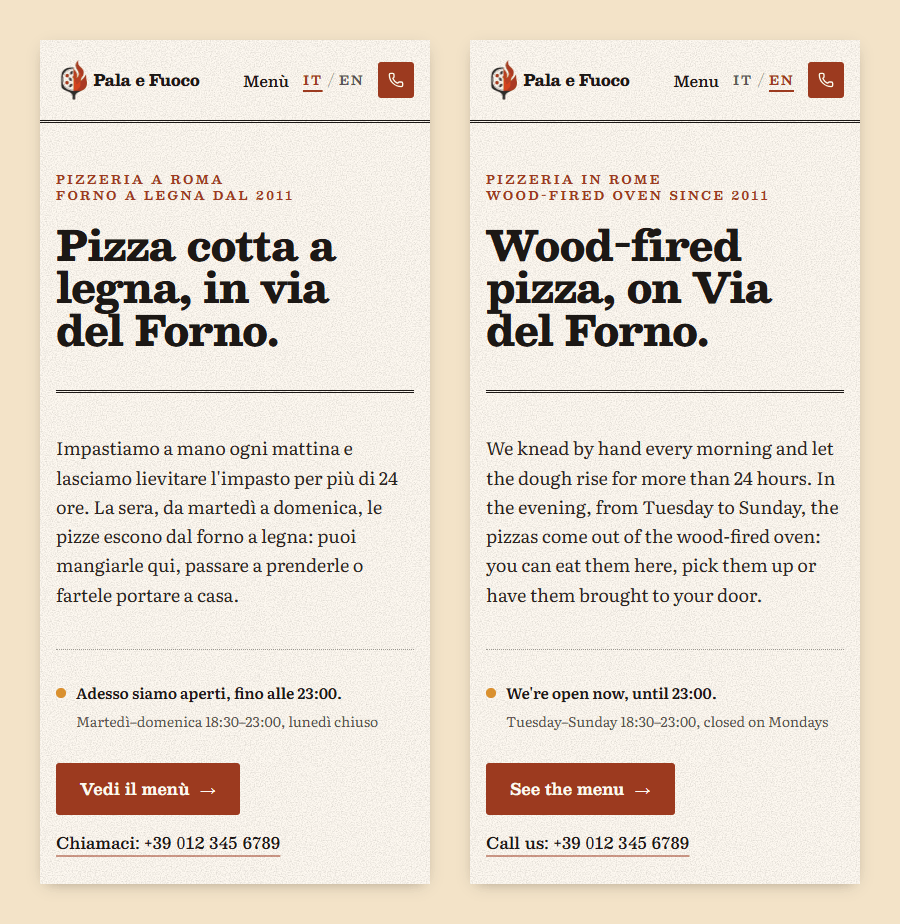
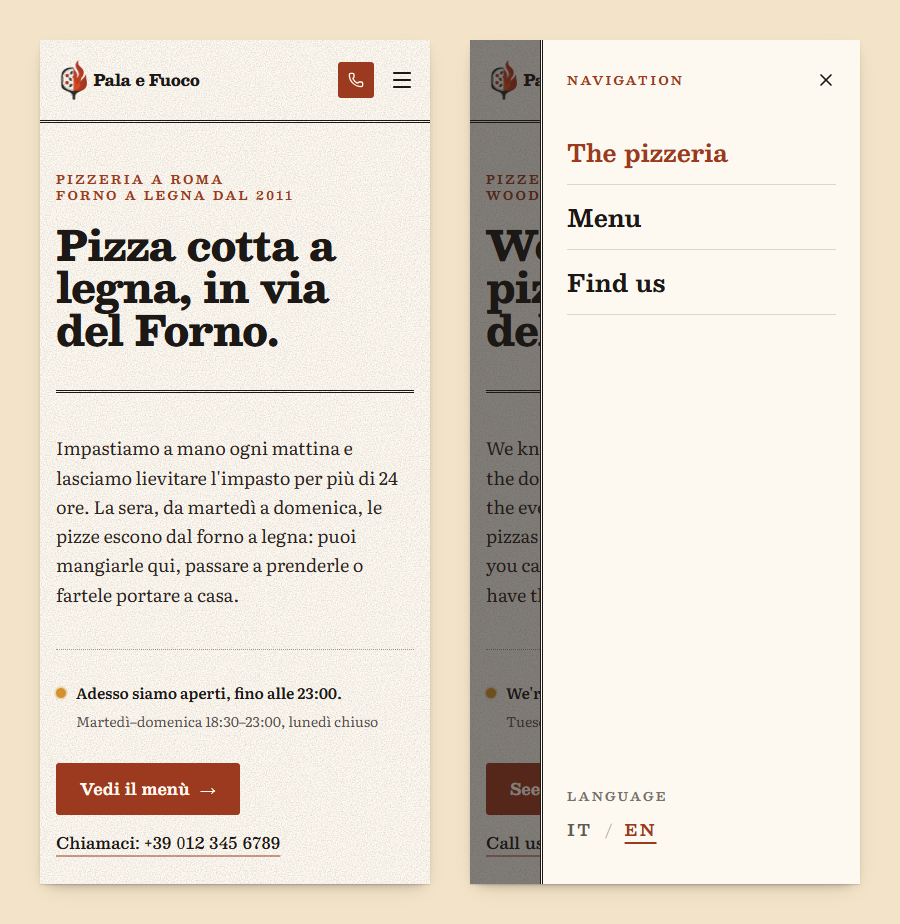
[IMPL]
- hamburger menu per rendere la navbar più leggibile
- aggiornamento screenshot README.md

Changed region(s): [[0.4978, 0.0303, 0.9644, 0.9697], [0.28, 0.0606, 0.4667, 0.1212]]

diff --git a/src/components/PizzeriaNav.tsx b/src/components/PizzeriaNav.tsx
@@ -1,46 +1,71 @@
-import { Phone } from 'lucide-react'
+import { Menu, Phone } from 'lucide-react'
+import { useCallback, useEffect, useState } from 'react'
 import { useTranslation } from 'react-i18next'
 import { Link, NavLink } from 'react-router-dom'
 import logo from '../assets/logo.webp'
 import { INFO } from '../data/info'
 import { LanguageSwitch } from './LanguageSwitch'
+import { NavDrawer } from './NavDrawer'
 
 const LINKS = [
-    { to: '/', key: 'nav.pizzeria', end: true, mobile: false },
-    { to: '/menu', key: 'nav.menu', end: false, mobile: true },
+    { to: '/', key: 'nav.pizzeria', end: true },
+    { to: '/menu', key: 'nav.menu', end: false },
 ]
+
+const DRAWER_ID = 'nav-drawer'
 
 const linkClass = ({ isActive }: { isActive: boolean }) =>
     `font-display text-[0.95rem] font-semibold underline-offset-[0.4em] transition-colors hover:text-terracotta-700 ${
         isActive ? 'text-terracotta-700 underline decoration-2' : 'text-carbone-900'
     }`
 
+const drawerLinkClass = ({ isActive }: { isActive: boolean }) =>
+    `block border-b border-carbone-900/15 py-4 text-2xl font-bold transition-colors hover:text-terracotta-700 ${
+        isActive ? 'text-terracotta-700' : 'text-carbone-900'
+    }`
+
 export function PizzeriaNav() {
     const { t } = useTranslation()
+    const [drawerOpen, setDrawerOpen] = useState(false)
+    const closeDrawer = useCallback(() => setDrawerOpen(false), [])
+
+    // Se la finestra si allarga fino a mostrare i link nella barra, la sidebar non ha più senso:
+    // la si chiude (e con lei lo scroll della pagina si sblocca). Stessa soglia dei link: 768px, 900px dal portfolio.
+    useEffect(() => {
+        if (!drawerOpen) return
+        const fromPortfolio = document.documentElement.hasAttribute('data-portfolio-back')
+        const query = window.matchMedia(fromPortfolio ? '(min-width: 900px)' : '(min-width: 768px)')
+        const onChange = () => query.matches && closeDrawer()
+        onChange()
+        query.addEventListener('change', onChange)
+        return () => query.removeEventListener('change', onChange)
+    }, [drawerOpen, closeDrawer])
+
     return (
         <header className="sticky top-0 z-40 border-b-[3px] border-double border-carbone-900 px-4 [background:inherit] sm:px-6 lg:px-8">
             {/* Sotto i 375px, per farci stare tutto, il logo sparisce e resta solo il nome. Aperta dal portfolio
                 (back:), il pl si somma a quello dell'header e lascia spazio alla pillola fissa "torna al portfolio"
-                in alto a sinistra, che finisce a 82px (104px da sm); per lo stesso motivo «La pizzeria» e
-                «Dove siamo» compaiono solo da 900px invece che da 768px. */}
+                in alto a sinistra, che finisce a 82px (104px da sm); per lo stesso motivo i link compaiono nella
+                barra solo da 900px invece che da 768px. Sotto quella soglia link e lingua stanno nella sidebar
+                (NavDrawer), aperta dal pulsante hamburger. */}
             <nav className="mx-auto flex h-20 w-full max-w-6xl items-center justify-between gap-2 back:pl-[4.625rem] back:sm:pl-[6.5rem]">
                 <Link to="/" className="flex shrink-0 items-center gap-1.5 sm:gap-2">
-                    <img src={logo} alt="" className="h-10 w-auto max-[374px]:hidden back:max-sm:hidden sm:h-11" />
-                    <span className="font-display text-base font-extrabold tracking-tight text-carbone-900 back:max-[419px]:text-sm sm:text-2xl">
+                    <img src={logo} alt="" className="h-10 w-auto max-[374px]:hidden sm:h-11" />
+                    <span className="font-display text-base font-extrabold tracking-tight text-carbone-900 sm:text-2xl">
                         Pala e Fuoco
                     </span>
                 </Link>
 
-                <div className="flex items-center gap-2.5 back:max-[419px]:gap-1.5 sm:gap-4 lg:gap-8">
-                    <ul className="flex items-center gap-6">
+                <div className="flex items-center gap-2.5 sm:gap-4 lg:gap-8">
+                    <ul className="hidden items-center gap-6 md:flex back:max-[899px]:hidden">
                         {LINKS.map((link) => (
-                            <li key={link.to} className={link.mobile ? '' : 'hidden md:block back:max-[899px]:hidden'}>
+                            <li key={link.to}>
                                 <NavLink to={link.to} end={link.end} className={linkClass}>
                                     {t(link.key)}
                                 </NavLink>
                             </li>
                         ))}
-                        <li className="hidden md:block back:max-[899px]:hidden">
+                        <li>
                             <Link
                                 to="/#contatti"
                                 className="font-display text-[0.95rem] font-semibold text-carbone-900 transition-colors hover:text-terracotta-700"
@@ -50,19 +75,58 @@ export function PizzeriaNav() {
                         </li>
                     </ul>
 
-                    <LanguageSwitch />
+                    <div className="hidden md:block back:max-[899px]:hidden">
+                        <LanguageSwitch />
+                    </div>
 
                     {/* Mockato: progetto dimostrativo, il pulsante non avvia una chiamata reale. */}
                     <button
                         type="button"
                         aria-label={t('nav.call', { phone: INFO.phone })}
-                        className="inline-flex size-9 back:max-[359px]:hidden items-center justify-center gap-2 rounded-[3px] bg-terracotta-700 text-sm font-semibold text-crema-50 transition hover:bg-terracotta-800 active:translate-y-px lg:size-auto lg:px-4 lg:py-2.5"
+                        className="inline-flex size-9 items-center justify-center gap-2 rounded-[3px] bg-terracotta-700 text-sm font-semibold text-crema-50 transition hover:bg-terracotta-800 active:translate-y-px lg:size-auto lg:px-4 lg:py-2.5"
                     >
                         <Phone className="size-4" />
                         <span className="hidden tabular-nums lg:inline">{INFO.phone}</span>
                     </button>
+
+                    <button
+                        type="button"
+                        aria-label={t('nav.openNavigation')}
+                        aria-expanded={drawerOpen}
+                        aria-controls={DRAWER_ID}
+                        onClick={() => setDrawerOpen(true)}
+                        className="-mr-1.5 inline-flex size-9 items-center justify-center rounded-[3px] text-carbone-900 transition-colors hover:bg-carbone-900/5 md:hidden back:max-[899px]:inline-flex"
+                    >
+                        <Menu className="size-6" />
+                    </button>
                 </div>
             </nav>
+
+            <NavDrawer open={drawerOpen} onClose={closeDrawer} id={DRAWER_ID}>
+                <ul>
+                    {LINKS.map((link) => (
+                        <li key={link.to}>
+                            <NavLink to={link.to} end={link.end} onClick={closeDrawer} className={drawerLinkClass}>
+                                {t(link.key)}
+                            </NavLink>
+                        </li>
+                    ))}
+                    <li>
+                        <Link to="/#contatti" onClick={closeDrawer} className={drawerLinkClass({ isActive: false })}>
+                            {t('nav.where')}
+                        </Link>
+                    </li>
+                </ul>
+
+                <div className="mt-auto pb-8 pt-10">
+                    <p className="mb-1 text-xs font-bold uppercase tracking-[0.2em] text-carbone-900/60">
+                        {t('nav.language')}
+                    </p>
+                    <div className="-ml-3">
+                        <LanguageSwitch large />
+                    </div>
+                </div>
+            </NavDrawer>
         </header>
     )
 }

diff --git a/src/components/NavDrawer.tsx b/src/components/NavDrawer.tsx
@@ -1,0 +1,112 @@
+import { X } from 'lucide-react'
+import { AnimatePresence, motion, useReducedMotion } from 'motion/react'
+import { type ReactNode, useEffect, useRef } from 'react'
+import { createPortal } from 'react-dom'
+import { useTranslation } from 'react-i18next'
+
+type Props = {
+    open: boolean
+    onClose: () => void
+    id: string
+    children: ReactNode
+}
+
+const FOCUSABLE = 'a[href], button:not([disabled])'
+
+/**
+ * Sidebar a destra della nav mobile. Montata su document.body (portale), così sta sopra anche alla
+ * pillola «torna al portfolio». Blocca lo scroll della pagina, si chiude con Esc o toccando lo sfondo,
+ * tiene il focus al suo interno e lo restituisce al pulsante che l'ha aperta.
+ */
+export function NavDrawer({ open, onClose, id, children }: Props) {
+    const { t } = useTranslation()
+    const reduceMotion = useReducedMotion()
+    const panelRef = useRef<HTMLDivElement>(null)
+    const onCloseRef = useRef(onClose)
+
+    useEffect(() => {
+        onCloseRef.current = onClose
+    }, [onClose])
+
+    useEffect(() => {
+        if (!open) return
+        const opener = document.activeElement as HTMLElement | null
+        const previousOverflow = document.body.style.overflow
+        document.body.style.overflow = 'hidden'
+        panelRef.current?.querySelector<HTMLElement>('[data-autofocus]')?.focus()
+
+        function onKeyDown(e: KeyboardEvent) {
+            if (e.key === 'Escape') {
+                onCloseRef.current()
+                return
+            }
+            if (e.key !== 'Tab' || !panelRef.current) return
+            const items = panelRef.current.querySelectorAll<HTMLElement>(FOCUSABLE)
+            if (items.length === 0) return
+            const first = items[0]
+            const last = items[items.length - 1]
+            if (e.shiftKey && document.activeElement === first) {
+                e.preventDefault()
+                last.focus()
+            } else if (!e.shiftKey && document.activeElement === last) {
+                e.preventDefault()
+                first.focus()
+            }
+        }
+        document.addEventListener('keydown', onKeyDown)
+        return () => {
+            document.removeEventListener('keydown', onKeyDown)
+            document.body.style.overflow = previousOverflow
+            opener?.focus()
+        }
+    }, [open])
+
+    const duration = reduceMotion ? 0 : 0.25
+
+    return createPortal(
+        <AnimatePresence>
+            {open && (
+                <div className="fixed inset-0 z-[60]">
+                    <motion.div
+                        aria-hidden="true"
+                        initial={{ opacity: 0 }}
+                        animate={{ opacity: 1 }}
+                        exit={{ opacity: 0 }}
+                        transition={{ duration }}
+                        onClick={onClose}
+                        className="absolute inset-0 bg-carbone-900/55"
+                    />
+                    <motion.div
+                        ref={panelRef}
+                        id={id}
+                        role="dialog"
+                        aria-modal="true"
+                        aria-label={t('nav.navigation')}
+                        initial={{ x: '100%' }}
+                        animate={{ x: 0 }}
+                        exit={{ x: '100%' }}
+                        transition={{ duration, ease: 'easeOut' }}
+                        className="absolute inset-y-0 right-0 flex w-[min(20rem,85vw)] flex-col overflow-y-auto border-l-[3px] border-double border-carbone-900 bg-crema-50 px-6 font-display text-carbone-900"
+                    >
+                        <div className="flex h-20 shrink-0 items-center justify-between">
+                            <span className="text-xs font-bold uppercase tracking-[0.2em] text-terracotta-700">
+                                {t('nav.navigation')}
+                            </span>
+                            <button
+                                type="button"
+                                data-autofocus
+                                onClick={onClose}
+                                aria-label={t('nav.closeNavigation')}
+                                className="-mr-2 inline-flex size-9 items-center justify-center rounded-[3px] transition-colors hover:bg-carbone-900/5"
+                            >
+                                <X className="size-5" />
+                            </button>
+                        </div>
+                        {children}
+                    </motion.div>
+                </div>
+            )}
+        </AnimatePresence>,
+        document.body,
+    )
+}

diff --git a/src/components/LanguageSwitch.tsx b/src/components/LanguageSwitch.tsx
@@ -7,8 +7,9 @@ const LANGS: Lang[] = ['it', 'en']
 /**
  * Selettore IT/EN «a stampa», come le voci della nav: niente pillole, la lingua attiva è
  * sottolineata in terracotta. La scelta resta salvata nel browser (vedi i18n/index.ts).
+ * `large` è la versione per la sidebar mobile, con aree di tocco più grandi.
  */
-export function LanguageSwitch() {
+export function LanguageSwitch({ large = false }: { large?: boolean }) {
     const { t, i18n } = useTranslation()
     const { lang } = useLocale()
 
@@ -31,7 +32,11 @@ export function LanguageSwitch() {
                         lang={l}
                         aria-pressed={lang === l}
                         onClick={() => choose(l)}
-                        className={`px-1 py-2 text-[0.8rem] back:max-[419px]:px-0.5 font-bold uppercase tracking-[0.12em] underline-offset-[0.4em] transition-colors sm:px-1.5 ${
+                        className={`font-bold uppercase underline-offset-[0.4em] transition-colors ${
+                            large
+                                ? 'px-3 py-2.5 text-base tracking-[0.14em]'
+                                : 'px-1 py-2 text-[0.8rem] tracking-[0.12em] sm:px-1.5'
+                        } ${
                             lang === l
                                 ? 'text-terracotta-700 underline decoration-2'
                                 : 'text-carbone-900/70 hover:text-carbone-900'

diff --git a/README.md b/README.md
@@ -14,15 +14,15 @@ Sito di una pizzeria di quartiere immaginaria, con **menù filtrabile, orari e s
 - **Menù** di 10 pizze con prezzo, ingredienti e illustrazione per le tre classiche, più il supplemento per l'impasto senza glutine. Il filtro «Solo vegetariane» mostra quante pizze troverebbe e annuncia il risultato ai lettori di schermo.
 - **Link diretti alle pizze**: in home ogni nome porta alla sua voce nel menù (`/menu#diavola`), che si illumina per un attimo. Anche «Dove siamo» (`/#contatti`) funziona da qualunque pagina.
 - **Riassunto del menù** in home ricavato dai dati: numero di pizze, quante sono vegetariane, la più economica e la più cara. Cambiando il menù il testo resta giusto.
-- **Italiano e inglese** con un selettore nella nav. La scelta resta salvata nel browser. Prezzi (`7,50 €` / `€7.50`) e giorni cambiano con la lingua; gli orari restano in 24 ore.
-- **Responsive**, da 320px in su: sotto i 375px il logo lascia il posto al solo nome, su mobile le illustrazioni del menù diventano una striscia orizzontale.
+- **Italiano e inglese** con un selettore di lingua, nella nav su desktop e nella sidebar su mobile. La scelta resta salvata nel browser. Prezzi (`7,50 €` / `€7.50`) e giorni cambiano con la lingua; gli orari restano in 24 ore.
+- **Responsive**, da 320px in su: su mobile la nav si riduce a logo, pulsante «Chiama» e hamburger, che apre una sidebar con i link e il selettore di lingua (sotto i 375px il logo lascia il posto al solo nome); le illustrazioni del menù diventano una striscia orizzontale.
 - **Accessibile**: contrasti WCAG AA, filtro con annuncio per i lettori di schermo, animazioni spente con «riduci movimento» attivo nel sistema.
 
 | Menù | Contatti e orari |
 |---|---|
 | ![Menù con il filtro vegetariano e le illustrazioni delle pizze](docs/screenshots/menu.png) | ![Orari, stato di apertura e cartina della zona](docs/screenshots/contatti.png) |
 
-![Versione mobile in italiano e in inglese](docs/screenshots/mobile.png)
+![Versione mobile: nav con hamburger in italiano, sidebar con link e selettore di lingua in inglese](docs/screenshots/mobile.png)
 
 ## Tecnologie
 
@@ -88,8 +88,9 @@ src/
   pizzeria.css             Tailwind con il tema della pizzeria (palette, font, grana della carta)
   assets/                  logo e illustrazioni delle pizze (WebP)
   components/
-    PizzeriaNav.tsx        logo, link, selettore di lingua e pulsante «Chiama»
+    PizzeriaNav.tsx        logo, link, pulsante «Chiama» e hamburger che apre la sidebar
     PizzeriaFooter.tsx     indirizzo, telefono e orari
+    NavDrawer.tsx          sidebar della nav mobile (portale, focus, Esc, blocco dello scroll)
     LanguageSwitch.tsx     selettore IT/EN
     MenuRow.tsx            voce di menù con i puntini di guida; id = slug, usato come ancora
     PhotoPrint.tsx         illustrazione di una pizza trattata come una stampa, con didascalia
